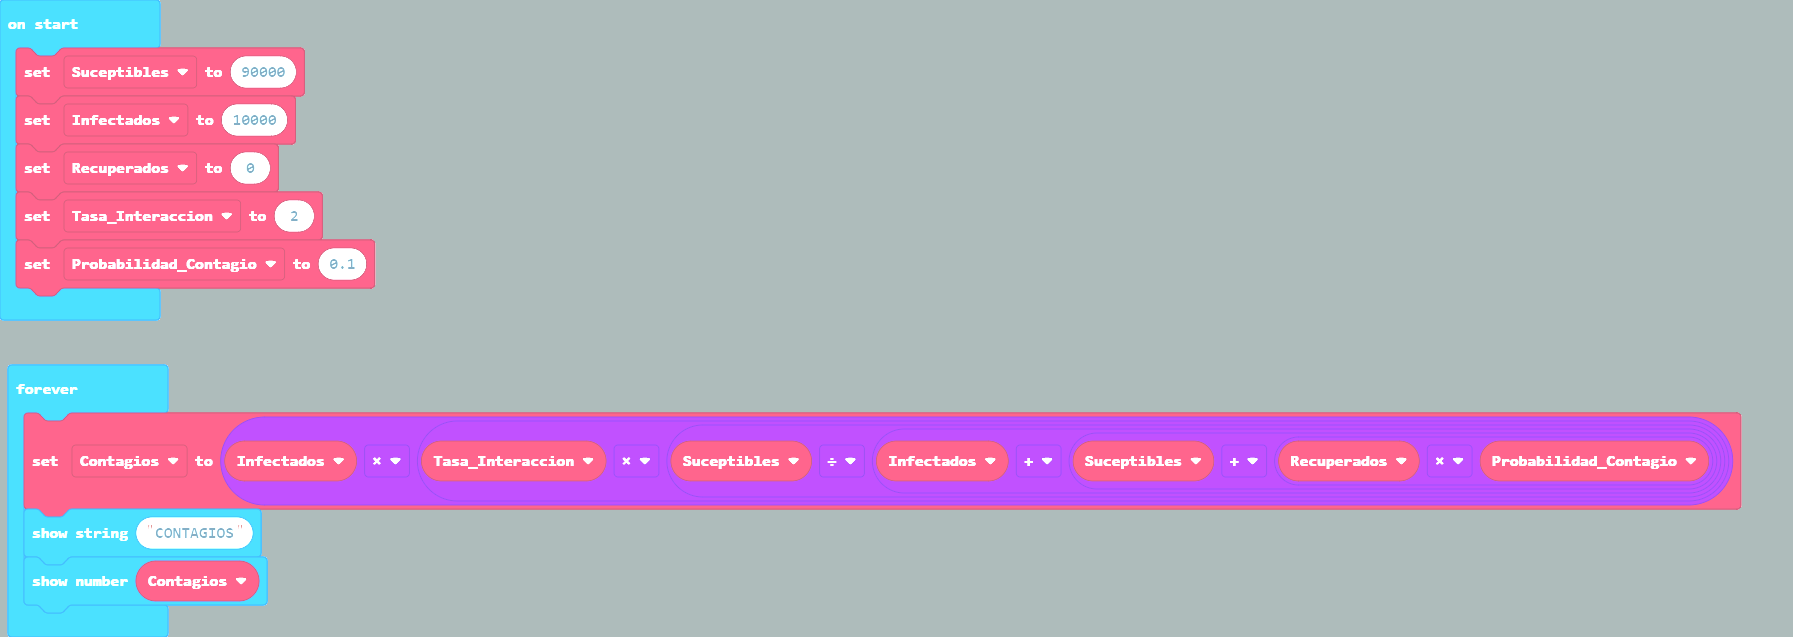
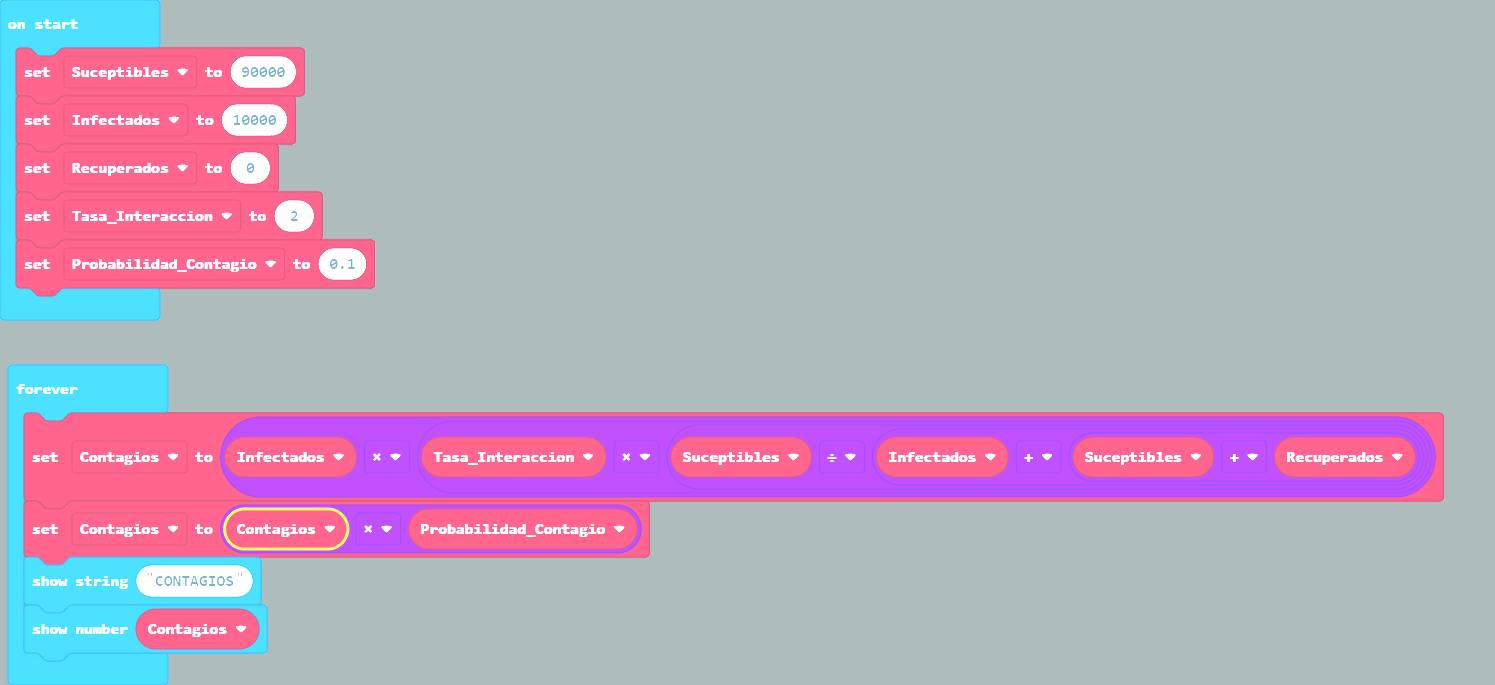
Update main.blocks, main.ts

Changed region(s): [[0.0, 0.0, 0.9846, 1.0]]

diff --git a/main.ts b/main.ts
@@ -5,7 +5,8 @@ let Recuperados = 0
 let Tasa_Interaccion = 2
 let Probabilidad_Contagio = 0.1
 basic.forever(function () {
-    Contagios = Infectados * (Tasa_Interaccion * (Suceptibles / (Infectados + (Suceptibles + Recuperados * Probabilidad_Contagio))))
+    Contagios = Infectados * (Tasa_Interaccion * (Suceptibles / (Infectados + (Suceptibles + Recuperados))))
+    Contagios = Contagios * Probabilidad_Contagio
     basic.showString("CONTAGIOS")
     basic.showNumber(Contagios)
 })
